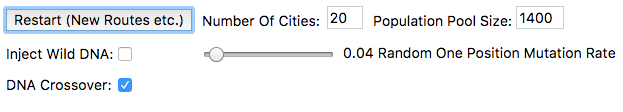
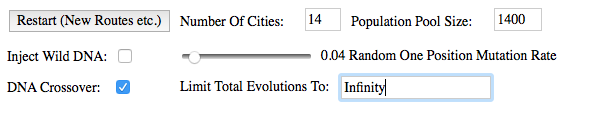
Added Limits
code, readme and sketch

diff --git a/sketch.js b/sketch.js
@@ -38,6 +38,7 @@ var population = [];
 var popTotal = 1400;
 var membTotal = 0;
 var popChange = false; // flag to change population on the fly
+var memberLimit = Infinity;
 
 // Evolution history
 var evolHist = [];
@@ -63,7 +64,7 @@ function setup() {
   makeAllNewRandomDNA();
   // Do the DOM
   DOMinator();
-}
+} // end setup
 
 function draw() {
   background(backColor);
@@ -73,8 +74,13 @@ function draw() {
   var minDist = Infinity;
   var maxDist = 0;
 
+if (membTotal <= memberLimit){
   // Search for the best this round and overall
   for (var i = 0; i < population.length; i++) {
+    if (membTotal >= memberLimit){
+      // we want to hit the memberLimit exactly
+      break;
+    }
     membTotal += 1;
     var d = population[i].calcDistance();
     // Is this the best ever?
@@ -94,7 +100,8 @@ function draw() {
     if (d > maxDist) {
       maxDist = d;
     }
-  }
+  } // end for
+} // end limit check
 
   // Show history
   ShowHistory();
@@ -172,7 +179,7 @@ function draw() {
   }
   // New population
   population = newPop;
-}
+} // end draw
 
 function judgeFitnessNormalize(minDist, maxDist){
   // Map all the fitness values between 0 and 1
@@ -256,6 +263,15 @@ function getPopInput(){
   }
 }
 
+function adjMemberLimit(){
+  if (limInput.value() >= 0){
+    memberLimit = limInput.value();
+  } else {
+    memberLimit = Infinity;
+    limInput.elt.value = Infinity;
+  }
+}
+
 // restart initializations
 function doReStart(){
   if (ncInput.value() >= 4){
@@ -320,4 +336,13 @@ function DOMinator(){
   chkboxDC.position(pdctxt.position().x + textWidth(dctxt) + 18, pdctxt.position().y - pdctxt.height*.1);
   chkboxDC.attribute('checked', null);
   chkboxDC.changed(setCrossOverFlag); // handle on the fly crossover change
+
+  var limtxt =  "Limit Total Evolutions To: ";
+  plimtxt = createP(limtxt);
+  plimtxt.position(inpnctxt.position().x , pdctxt.position().y - pdctxt.height*.9);
+  limInput = createInput(memberLimit);
+  limInput.changed(adjMemberLimit); // handle on the fly memberLimit changed
+  limInput.size(150);
+  limInput.position(plimtxt.position().x + textWidth(limtxt) + 26, pdctxt.position().y - limInput.height*.2);
+
 }

diff --git a/README.md b/README.md
@@ -50,6 +50,9 @@ One is the total history curve and the paler, thinner yellow curve represents th
 * Checkbox &ndash; **DNA Crossover:**
   - The GA reproduction does a simple DNA crossover when generating the next members.
   - The single wild DNA can still occur if checked when crossovers are not to occur.
+* Input &ndash; **Limit Total Evolutions To:**
+  - Set a stopping point. The default value is Infinity. The number placed here is the number of routes generated where the process stops.
+  - You can use this input to halt the process. Type in a 1 or any number smaller than the current pool count. The generation process stops but the history section UI still functions. Type in a -1 to pick up the process where it had been halted. The Infinity value will be entered for you.
 
 **The Genetic Algorithm (GA)**
 
